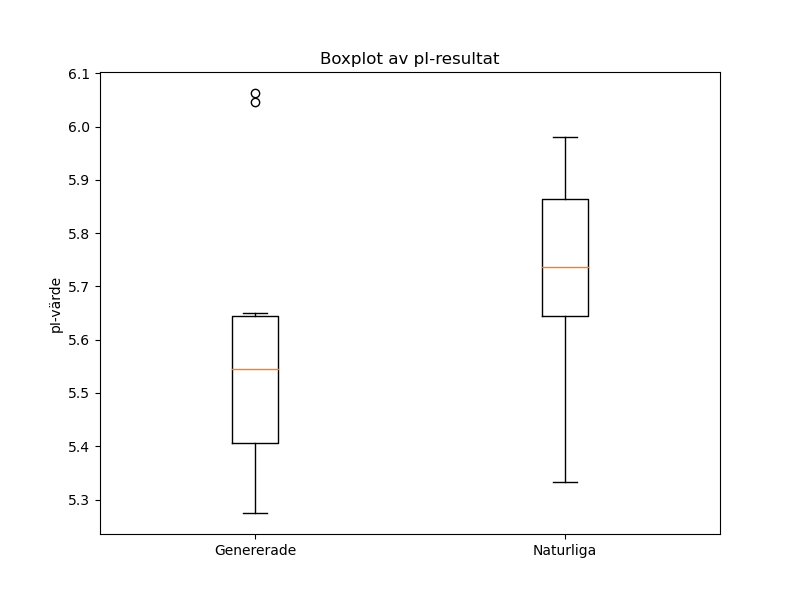
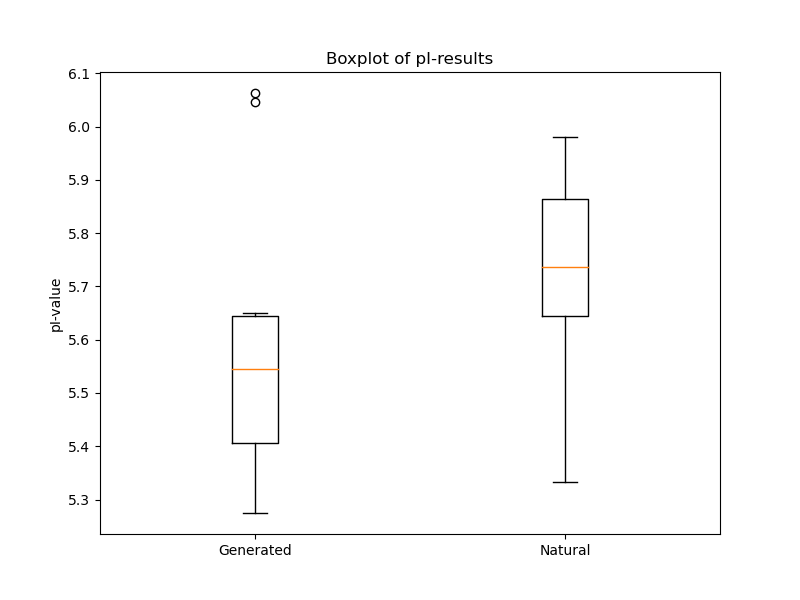
creating boxplot out of the pI-values

diff --git a/boxplot.py b/boxplot.py
@@ -1,29 +1,28 @@
 import pandas as pd
 import matplotlib.pyplot as plt
 
-# Läs in CSV-filen. Antag att filen har en header.
+# Read the CSV file. Assume that the file has a header.
 df = pd.read_csv('results/pI_results.csv')
 
-# Om filen har en kolumn med rubriken 'pI' används den, annars antas att pI-värdena finns i den andra kolumnen.
+# If the file has a column with the header 'pI', use it; otherwise, assume that the pI values are in the second column.
 if 'pI' in df.columns:
     pI_values = df['pI']
 else:
-    # Om det finns mer än en kolumn, använd den andra (index 1). Annars använd första kolumnen.
+    # If there is more than one column, use the second (index 1). Otherwise, use the first column.
     pI_values = df.iloc[:, 1] if df.shape[1] > 1 else df.iloc[:, 0]
 
-# Notera: Om CSV-filen har en header så motsvarar rad 2–11 data med index 1–10,
-# och rad 12–21 data med index 11–20.
-group_genererade = pI_values.iloc[1:11]
-group_naturliga = pI_values.iloc[11:21]
+# Note: If the CSV file has a header, then rows 2–11 correspond to data with indices 1–10,
+# and rows 12–21 correspond to data with indices 11–20.
+group_generated = pI_values.iloc[1:11]
+group_natural = pI_values.iloc[11:21]
 
-# Sätt ihop grupperna i en lista och definiera etiketter
-data = [group_genererade, group_naturliga]
-labels = ['Genererade', 'Naturliga']
+# Combine the groups into a list and define labels.
+data = [group_generated, group_natural]
+labels = ['Generated', 'Natural']
 
-# Rita boxplot
+# Plot the boxplot.
 plt.figure(figsize=(8, 6))
 plt.boxplot(data, labels=labels)
-plt.ylabel('pI-värde')
-plt.title('Boxplot av pI-resultat')
+plt.ylabel('pI-value')
+plt.title('Boxplot of pI-results')
 plt.savefig("boxplot.png")
-
